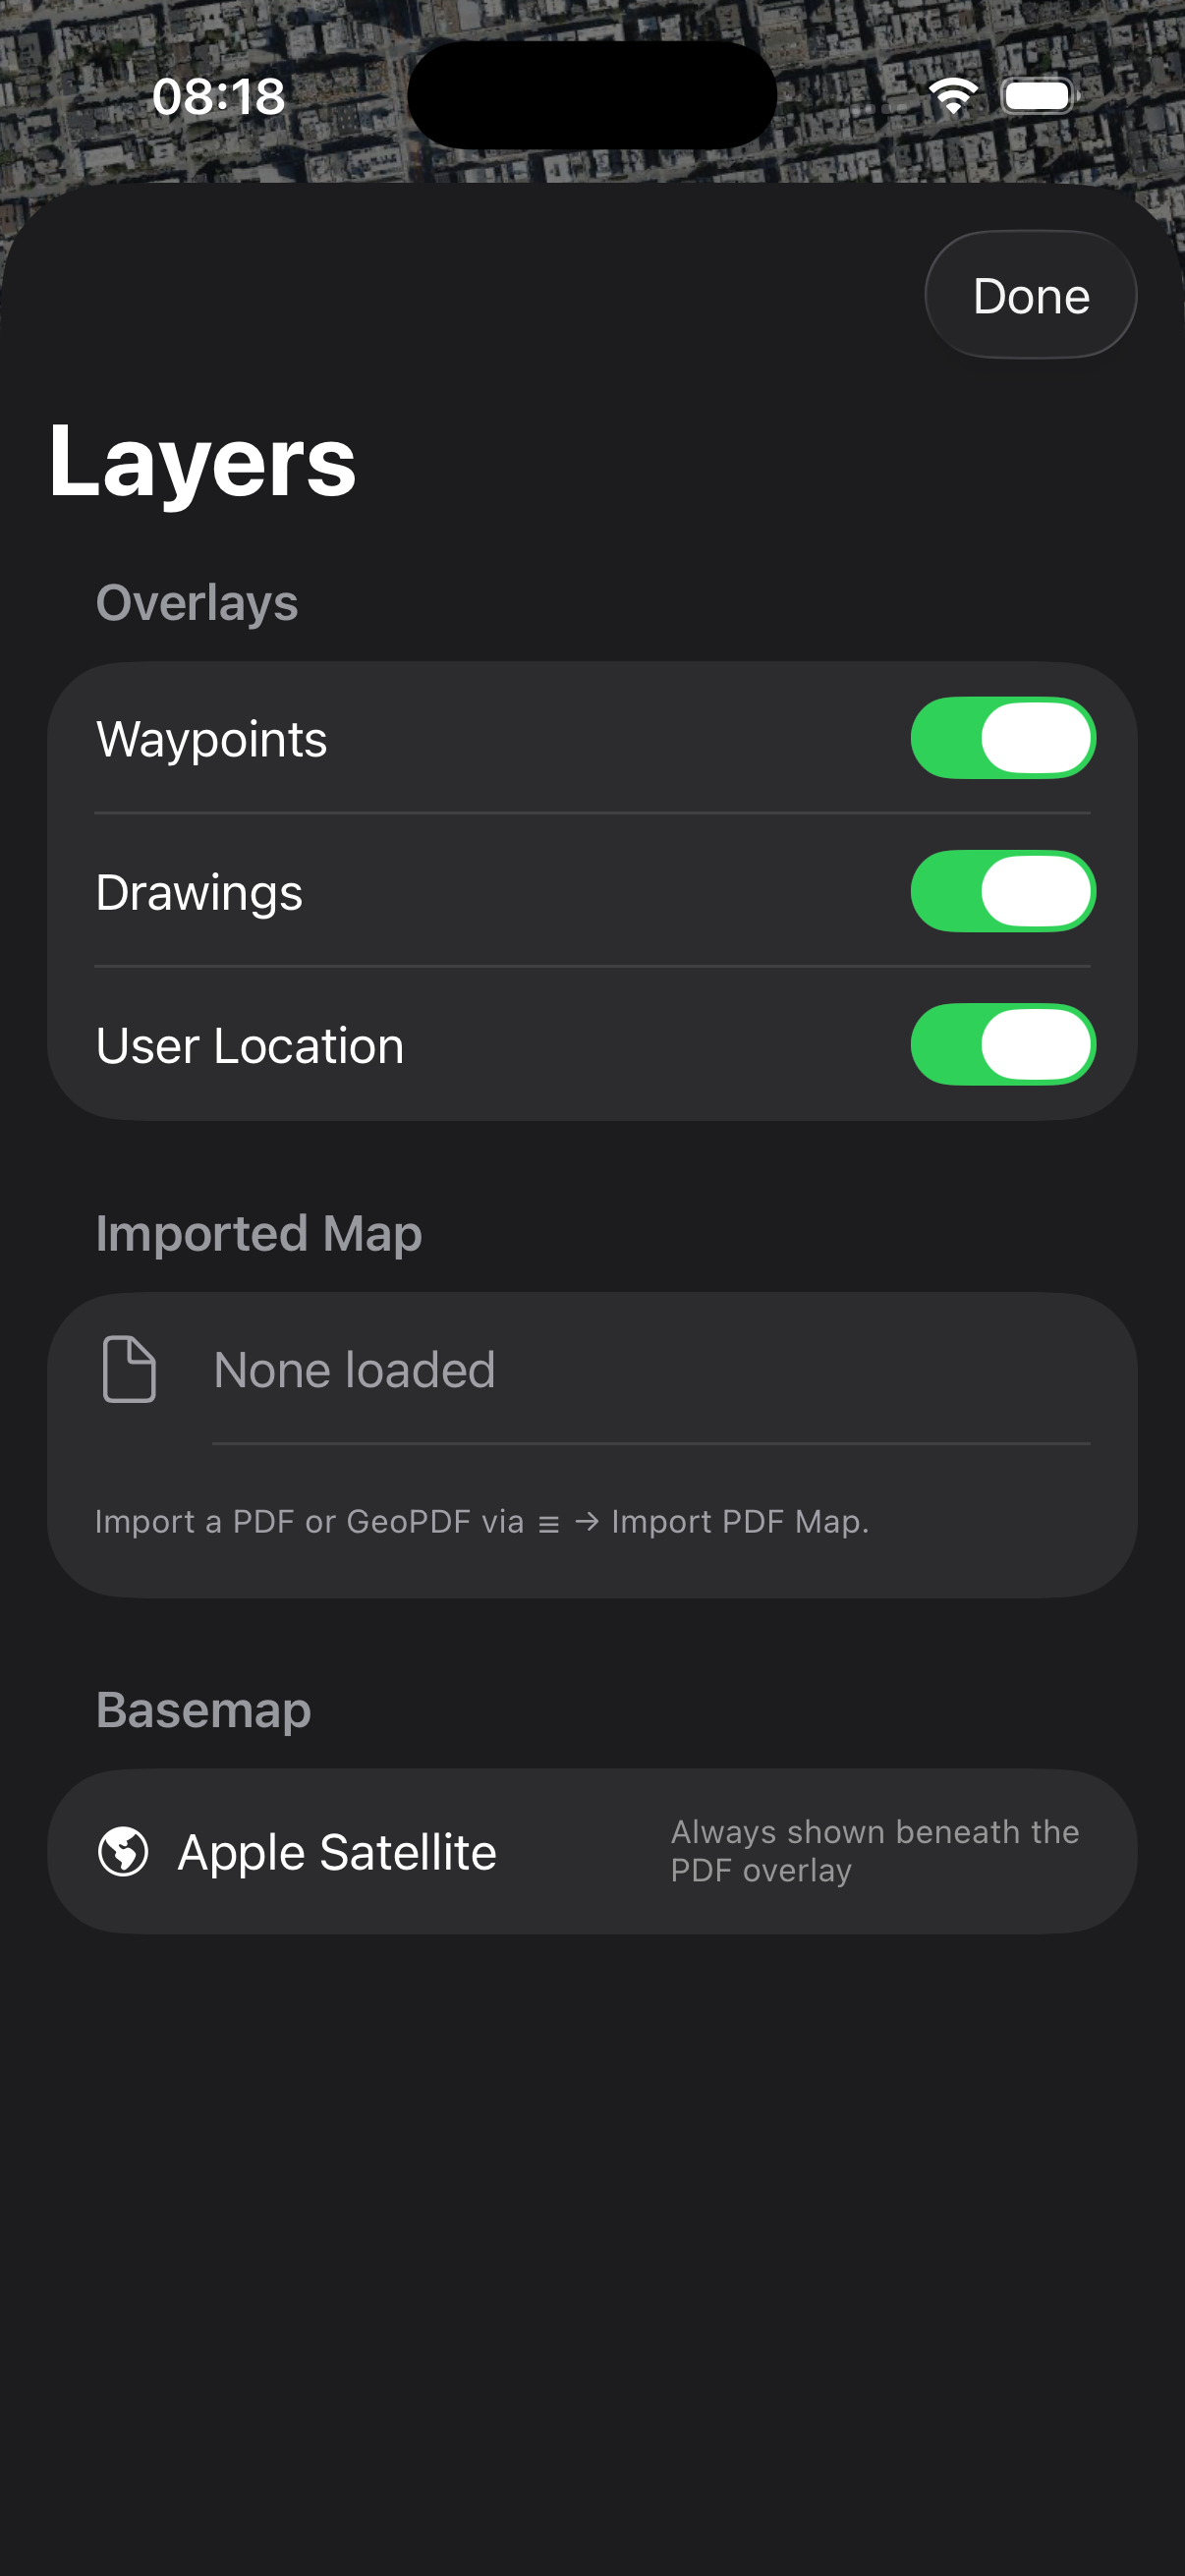
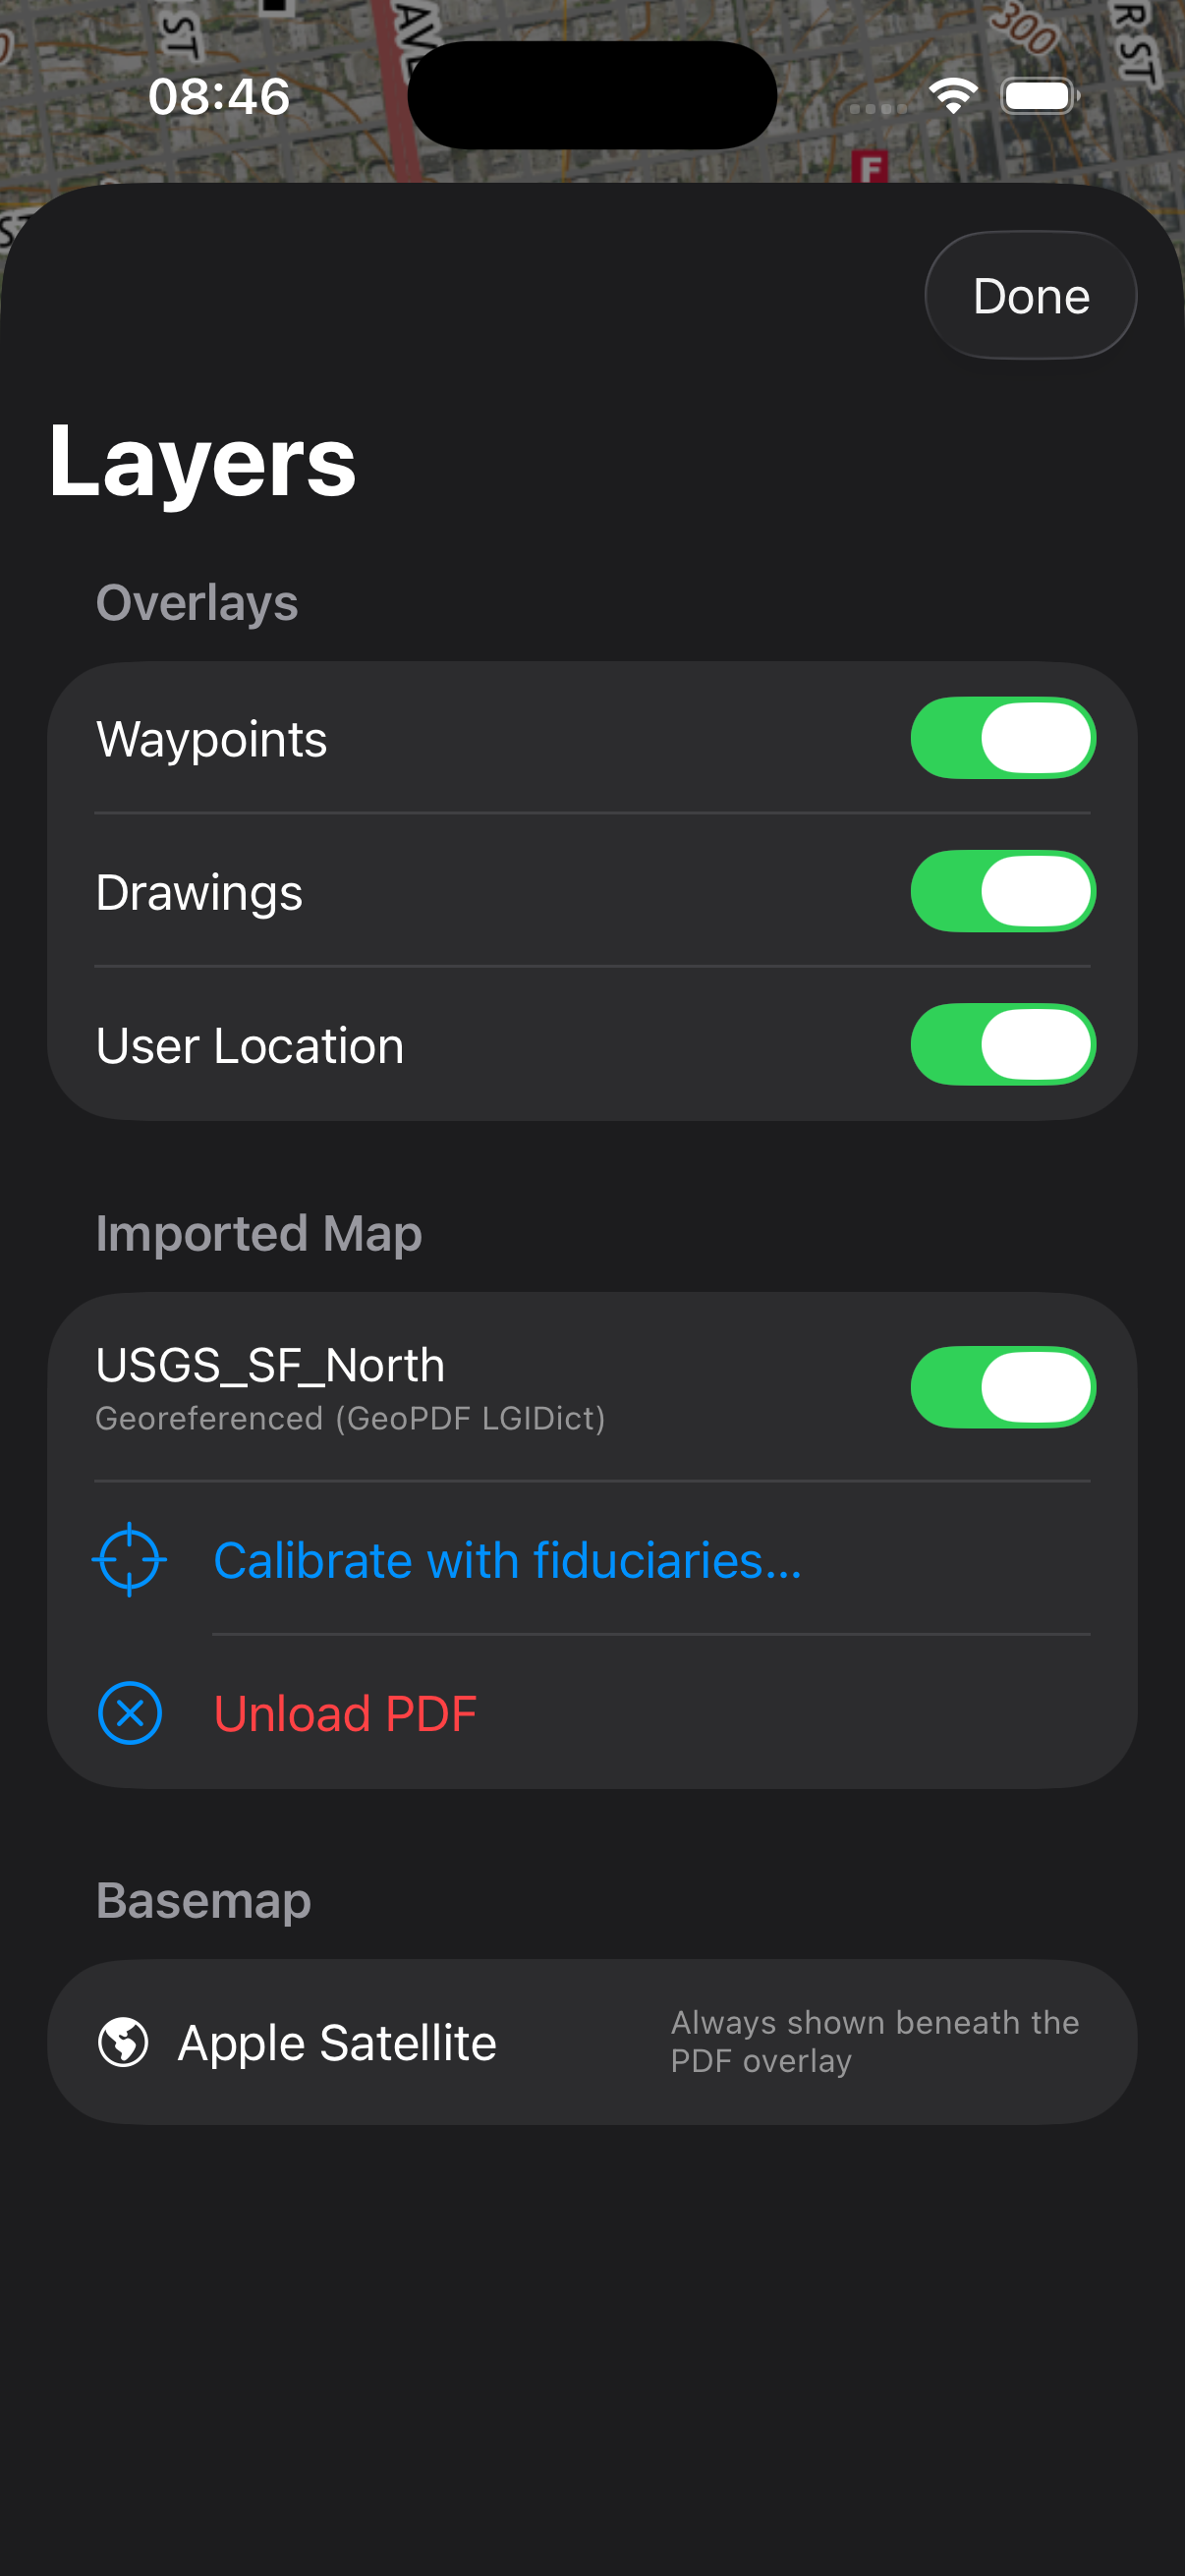
Swap Holsworthy demo for USGS San Francisco North (public domain)
- docs/screenshots/02-pdf-basemap.png replaces 02-holsworthy.png. Shows
  the USGS US Topo 1:24k SF North quadrangle rendered live as the
  basemap via Adobe Geospatial /VP/Measure /GPTS parsing.
- docs/screenshots/07-layers.png re-captured: now shows the Layers
  sheet with USGS_SF_North loaded + 'Georeferenced (GeoPDF LGIDict)'
  status + Calibrate / Unload actions.
- scripts/fetch_samples.sh downloads the same PDF (~38 MB) into
  samples/ on demand. Direct S3 URL pinned to the 2021-12-30 edition.
- samples/README.md rewritten to point at USGS instead of the
  Holsworthy sheet, with a table of free-GeoPDF sources by country.
- .gitignore now excludes samples/*.pdf so heavy binaries never
  enter git history.

Also fix Adobe Geospatial /BBox parsing: USGS encodes the rect with
y_min > y_max in the array, which produced a negative-height CGRect
through naive nums[3]-nums[1]. Take min/max so the rect is always
well-formed regardless of encoder convention.

diff --git a/ios/TacticalMaps/Calibration/GeoPDFReader.swift b/ios/TacticalMaps/Calibration/GeoPDFReader.swift
@@ -147,9 +147,16 @@ enum GeoPDFReader {
                 if CGPDFArrayGetNumber(bbox, i, &n) { nums[i] = Double(n) } else { ok = false; break }
             }
             if ok {
-                crop = CGRect(x: nums[0], y: nums[1],
-                              width:  nums[2] - nums[0],
-                              height: nums[3] - nums[1])
+                // Normalise: USGS US Topo (and some other Adobe Geospatial
+                // encoders) write /BBox as [llx, lly, urx, ury] where lly can
+                // be GREATER than ury — producing a negative-height rect
+                // through naive (nums[3] - nums[1]). Take min/max so the rect
+                // is always well-formed.
+                let x0 = min(nums[0], nums[2])
+                let x1 = max(nums[0], nums[2])
+                let y0 = min(nums[1], nums[3])
+                let y1 = max(nums[1], nums[3])
+                crop = CGRect(x: x0, y: y0, width: x1 - x0, height: y1 - y0)
             }
         }
 

diff --git a/samples/README.md b/samples/README.md
@@ -1,16 +1,47 @@
 # samples/
 
-This directory is intentionally empty in the public repo.
+This directory contains **no PDFs in the public repo** (they're large and not
+under our copyright). The `.gitignore` excludes `*.pdf` to keep the repo lean.
 
-The Holsworthy North 1:25,000 PDF that was used during development is
-Australian Defence Force / AUSLIG copyright and **must not be redistributed**.
-It was removed before the App Store submission per
-`docs/APPSTORE_CHECKLIST.md`.
+## Download a free test PDF
 
-If you need a freely-redistributable GeoPDF for testing, the USGS publishes
-the entire US Topo series under public domain:
+```bash
+./scripts/fetch_samples.sh
+```
 
-  https://www.usgs.gov/programs/national-geospatial-program/us-topo-maps-america
+That script downloads the **USGS San Francisco North 1:24,000 US Topo**
+quadrangle (38 MB, public domain US Government work) into
+`samples/USGS_SF_North.pdf`. The same PDF is the basemap in screenshot §2 of
+the README.
 
-Drop any `.pdf` you download into this directory; `project.yml` resources the
-`samples/` folder so it ships into the app bundle for testing.
+File: `CA_San_Francisco_North_20211230_TM_geo.pdf` (2021-12-30 edition).
+
+## Push the PDF into the iOS simulator for testing
+
+```bash
+APP_CONTAINER=$(xcrun simctl get_app_container 'iPhone 17 Pro' com.tacticalmaps.app data)
+cp samples/USGS_SF_North.pdf "$APP_CONTAINER/Documents/"
+```
+
+Then in the running app: **☰ → Import PDF Map** → **On My iPhone →
+TacticalMaps → USGS_SF_North.pdf**.
+
+## Why not commit the PDF directly?
+
+- **Size**: USGS US Topo PDFs are 30–50 MB each. Bloats the repo.
+- **Discoverability**: anyone cloning the repo can pull fresh USGS sheets for
+  their own area of interest — the canonical S3 host is documented in
+  `scripts/fetch_samples.sh`.
+- **Updates**: USGS re-publishes quads on a ~5-year cadence; the script can
+  be bumped to a newer edition without a binary diff in git history.
+
+## Where to find other free GeoPDFs
+
+| Region | Source | Format | Notes |
+|---|---|---|---|
+| United States | USGS US Topo (1:24k) | OGC GeoPDF + Adobe Geospatial /VP | <https://www.usgs.gov/programs/national-geospatial-program/us-topo-maps-america> |
+| Canada | Natural Resources Canada (NRCan) topo | GeoPDF | <https://maps.canada.ca/> |
+| France | IGN SCAN 25 | GeoPDF | Some free, most subscription |
+| United Kingdom | Ordnance Survey OS Maps | Mostly raster PDF, partial geo | Requires OS subscription for full geo |
+| Australia | Geoscience Australia 1:250k / 1:100k | GeoPDF | Public-sector data, free |
+| New Zealand | Land Information NZ NZTopo50 | GeoPDF | Creative Commons — free |

diff --git a/README.md b/README.md
@@ -13,9 +13,9 @@ any PDF that lacks proper georeferencing. iOS (SwiftUI + MapKit) and Android
 (Kotlin + Compose + Google Maps) ship from one repository.
 
 <p align="center">
-  <img src="docs/screenshots/01-main-sf.png" width="260" alt="Main view (live location)">
+  <img src="docs/screenshots/01-main-sf.png" width="260" alt="Main view (live location, satellite)">
   &nbsp;
-  <img src="docs/screenshots/03-hamburger-menu.png" width="260" alt="Hamburger menu">
+  <img src="docs/screenshots/02-pdf-basemap.png" width="260" alt="USGS US Topo PDF rendered as basemap">
   &nbsp;
   <img src="docs/screenshots/06-drawing-mode.png" width="260" alt="Live drawing mode">
 </p>
@@ -24,11 +24,11 @@ any PDF that lacks proper georeferencing. iOS (SwiftUI + MapKit) and Android
 <summary>More screenshots</summary>
 
 <p align="center">
-  <img src="docs/screenshots/02-holsworthy.png" width="260" alt="Map centre at Holsworthy">
+  <img src="docs/screenshots/03-hamburger-menu.png" width="260" alt="Hamburger menu">
   &nbsp;
   <img src="docs/screenshots/05-drawings-panel.png" width="260" alt="Drawings panel">
   &nbsp;
-  <img src="docs/screenshots/07-layers.png" width="260" alt="Layers sheet">
+  <img src="docs/screenshots/07-layers.png" width="260" alt="Layers sheet (USGS PDF loaded)">
 </p>
 
 <p align="center">
@@ -38,6 +38,10 @@ any PDF that lacks proper georeferencing. iOS (SwiftUI + MapKit) and Android
 </p>
 
 </details>
+
+The basemap screenshot (£2) is the **USGS San Francisco North** 1:24,000 US Topo
+quadrangle (public domain) rendered live over the satellite. Run
+`scripts/fetch_samples.sh` to drop the same PDF into `samples/` for testing.
 
 ---
 